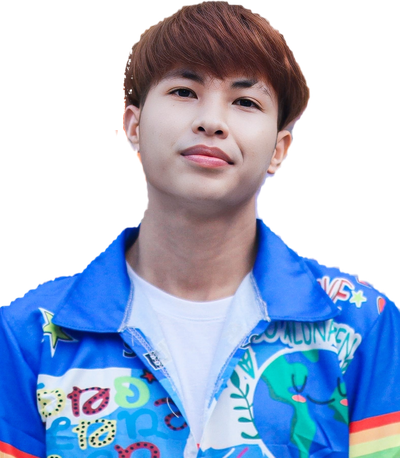
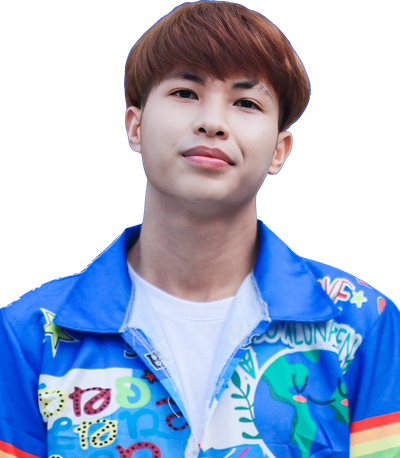
Update profile image with ekalat_png and replace social links with Facebook, Instagram, WhatsApp

diff --git a/index.html b/index.html
@@ -45,9 +45,9 @@
                 </div>
 
                 <div class="home__social">
-                    <a href="#" class="home__social-icon"><i class='bx bxl-linkedin'></i></a>
-                    <a href="#" class="home__social-icon"><i class='bx bxl-behance' ></i></a>
-                    <a href="#" class="home__social-icon"><i class='bx bxl-facebook' ></i></a>
+                    <a href="https://www.facebook.com/EKALATDz/" target="_blank" class="home__social-icon" title="Facebook"><i class='bx bxl-facebook'></i></a>
+                    <a href="https://www.instagram.com/e._.qq9?exln=MXdwdnB5dWZjb3lxMQ==" target="_blank" class="home__social-icon" title="Instagram"><i class='bx bxl-instagram'></i></a>
+                    <a href="https://wa.me/8562052584450" target="_blank" class="home__social-icon" title="WhatsApp"><i class='bx bxl-whatsapp'></i></a>
                 </div>
 
                 <div class="home__img">
@@ -57,7 +57,7 @@
                         </mask>
                         <g mask="url(#mask0)">
                             <path d="M9.19024 145.964C34.0253 76.5814 114.865 54.7299 184.111 29.4823C245.804 6.98884 311.86 -14.9503 370.735 14.143C431.207 44.026 467.948 107.508 477.191 174.311C485.897 237.229 454.931 294.377 416.506 344.954C373.74 401.245 326.068 462.801 255.442 466.189C179.416 469.835 111.552 422.137 65.1576 361.805C17.4835 299.81 -17.1617 219.583 9.19024 145.964Z"/>
-                            <image class="home__blob-img" x="50" y="60" href="assets/img/perfil.png"/>
+                            <image class="home__blob-img" x="50" y="60" href="assets/img/ekalat_png.png"/>
                         </g>
                     </svg>
                 </div>
@@ -221,9 +221,9 @@
         <footer class="footer">
             <p class="footer__title">Ekalat Phommaseng</p>
             <div class="footer__social">
-                <a href="#" class="footer__icon"><i class='bx bxl-facebook' ></i></a>
-                <a href="#" class="footer__icon"><i class='bx bxl-instagram' ></i></a>
-                <a href="#" class="footer__icon"><i class='bx bxl-linkedin' ></i></a>
+                <a href="https://www.facebook.com/EKALATDz/" target="_blank" class="footer__icon" title="Facebook"><i class='bx bxl-facebook' ></i></a>
+                <a href="https://www.instagram.com/e._.qq9?exln=MXdwdnB5dWZjb3lxMQ==" target="_blank" class="footer__icon" title="Instagram"><i class='bx bxl-instagram' ></i></a>
+                <a href="https://wa.me/8562052584450" target="_blank" class="footer__icon" title="WhatsApp"><i class='bx bxl-whatsapp' ></i></a>
             </div>
             <p class="footer__copy">&#169; 2026 Ekalat Phommaseng. All rights reserved</p>
         </footer>
